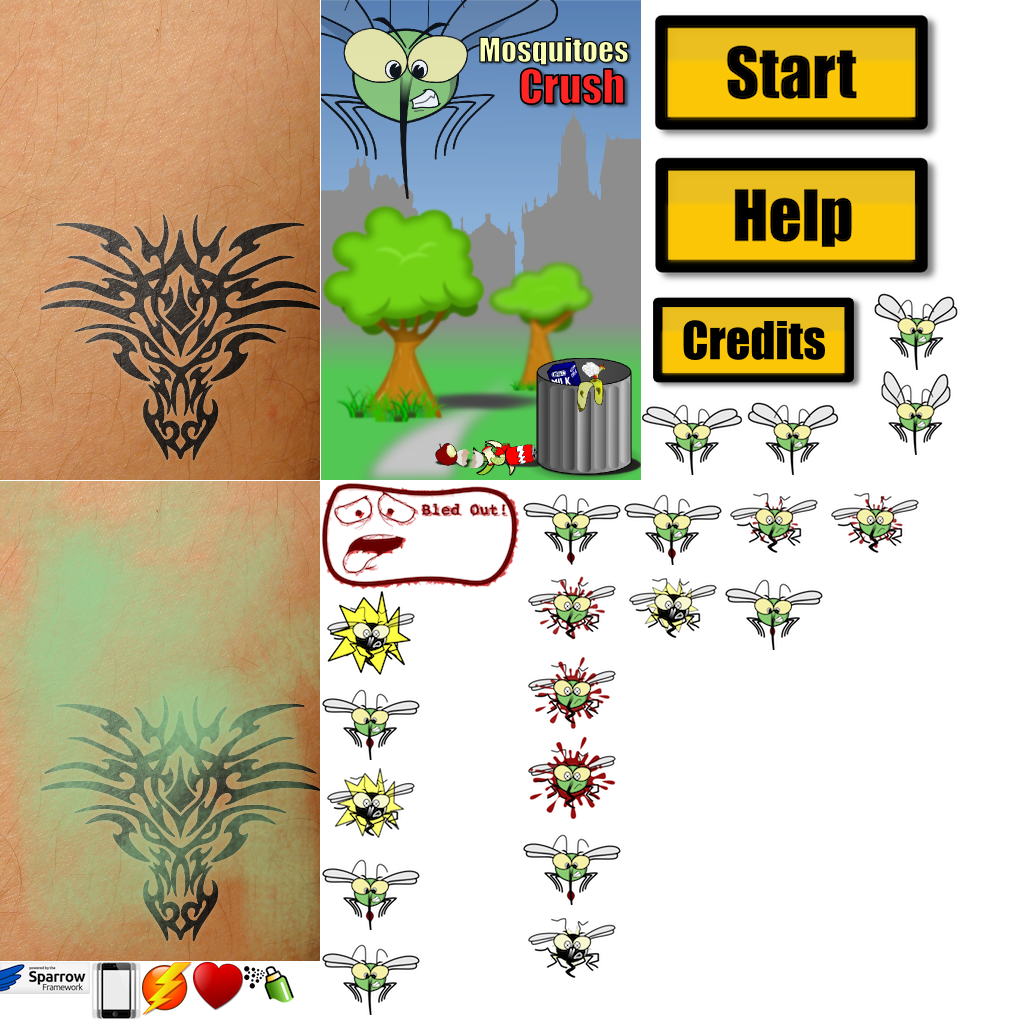
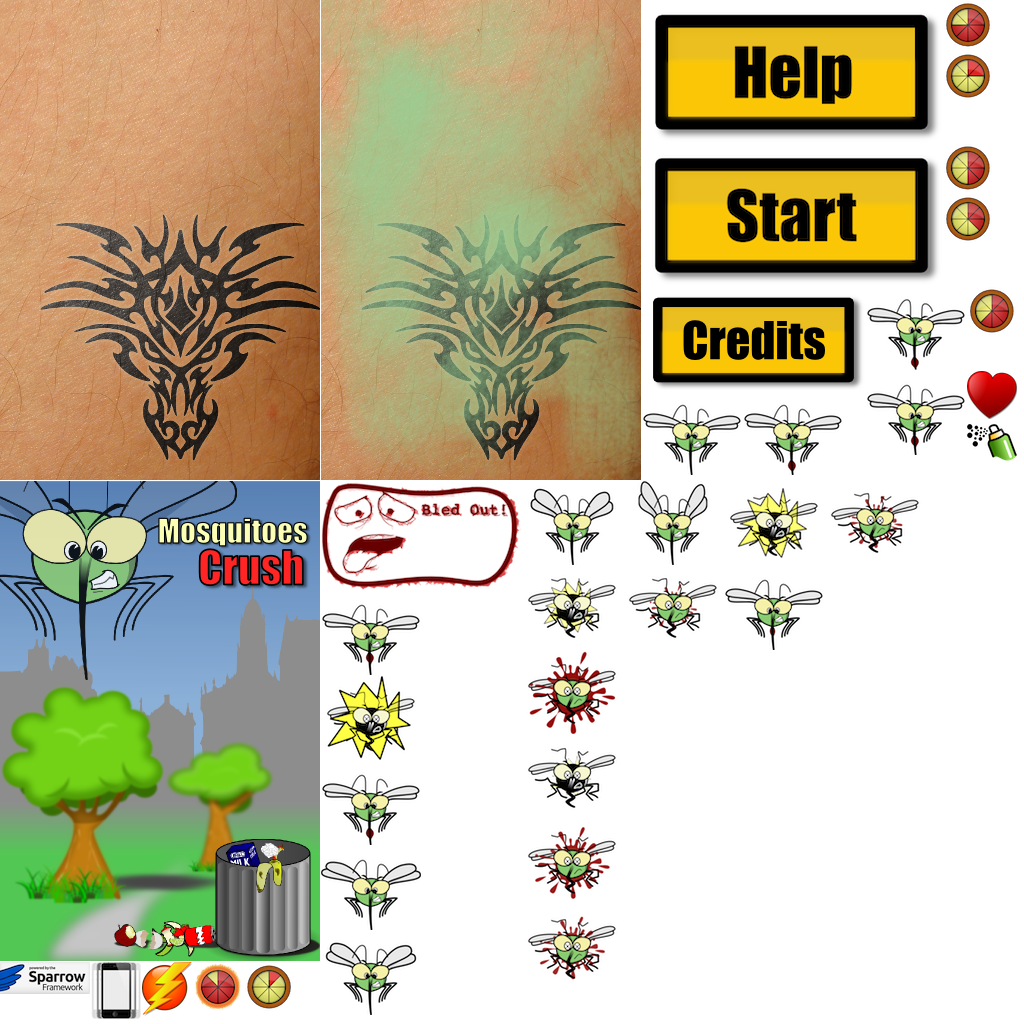
waves

diff --git a/Classes/MainMenu.m b/Classes/MainMenu.m
@@ -11,6 +11,17 @@
 #import "MosquitoSprite.h"
 #import "MosquitoTouchEvent.h"
 
+int totalWave = 4;
+int currentWave = 0;
+
+double waves[][11] = {
+    //Time_0, Pacific_1, Lvl1_2, Lvl1WI_3, Lvl1WE_4, Lvl2_5, Lvl2WI_6, Lvl2WE_7, Lvl3_8, Lvl3WI_9, Lvl3WE_10
+    { 20.0  , 0.0      , 15.0  , 0.5     , 1     , 0.0   , 0.0     , 0.0     , 0.0   , 0.0     , 0.0      },
+    { 25.0  , 0.0      , 10.0  , 0.5     , 1     , 3.0   , 1.0     , 1.5     , 0.0   , 0.0     , 0.0      },
+    { 25.0  , 2.0      , 10.0  , 0.5     , 1     , 3.0   , 1.0     , 1.5     , 0.0   , 0.0     , 0.0      },
+    { 30.0  , 3.0      , 10.0  , 0.5     , 1     , 4.0   , 1.0     , 1.5     , 2.0   , 1.5     , 5.0      }
+};
+
 @interface MainMenu() {
     int kills;
     int HScore;
@@ -30,6 +41,7 @@
 -(void) countDownValue:(int) val;
 -(void) killit:(MosquitoTouchEvent*) event;
 -(void) updateHighScore:(double) score;
+-(void) nextRound:(SPEvent*) event;
 @end
 
 @implementation MainMenu
@@ -178,6 +190,7 @@
 
 -(void)marathon {
     [self countDownValue:3];
+    currentWave = 0;
     //[mPlayground launchMosquitoAtX:160 Y:240 FlyProb:1.0 Life:1 Power:1];
 }
 
@@ -212,34 +225,43 @@
 }
 
 -(void)startMarathon {
-    [mPlayground launchPacificAtX:arc4random()%(int)(self.width-90) + 15 Y:arc4random()%(int)(self.height-150)+37];
-    for (int i =0; i < 7; i++) {
-        [mPlayground launchMosquitoAtX:arc4random()%(int)(self.width-90) + 15 Y:arc4random()%(int)(self.height-150)+37 FlyProb:0.75 Life:1 Power:1 Worth:1.5];
+    //[self nextRound:nil];
+    [mPlayground showClock:7.0];
+ //   [mPlayground addEventListener:@selector(killit:) atObject:self forType:EVENT_TYPE_MOSQUITO_TOUCHED];
+    [mPlayground addEventListener:@selector(nextRound:) atObject:self forType:EVENT_CLOCK_ENDED];
+}
+
+-(void)nextRound:(SPEvent *)event {
+    double time = 0;
+    for (int i = 0; i < waves[currentWave][1]; i++) {
+        [mPlayground launchPacificAtX:arc4random()%(int)(self.width-90) + 15 Y:arc4random()%(int)(self.height-150)+37];
     }
-    kills = 0;
-    [mPlayground addEventListener:@selector(killit:) atObject:self forType:EVENT_TYPE_MOSQUITO_TOUCHED];
+    for (int i =0; i < waves[currentWave][2]; i++) {
+        double prob = (arc4random()%1000/1000.0)*(waves[currentWave][4] - waves[currentWave][3]) + waves[currentWave][3];
+        time += prob;
+        [[mInGameJuggler delayInvocationAtTarget:mPlayground byTime:time] launchMosquitoAtX:arc4random()%(int)(self.width-90)+15 Y:arc4random()%(int)(self.height-150)+37 FlyProb:0.75 Life:1 Power:1 Worth:1.5];
+    }
+    time = 0;
+    for (int i =0; i < waves[currentWave][5]; i++) {
+        double prob = (arc4random()%1000/1000.0)*(waves[currentWave][7] - waves[currentWave][6]) + waves[currentWave][6];
+        time += prob;
+        [[mInGameJuggler delayInvocationAtTarget:mPlayground byTime:time] launchMosquitoAtX:arc4random()%(int)(self.width-90)+15 Y:arc4random()%(int)(self.height-150)+37 FlyProb:0.65 Life:2 Power:2 Worth:3];
+    }
+    time = 0;
+    for (int i =0; i < waves[currentWave][8]; i++) {
+        double prob = (arc4random()%1000/1000.0)*(waves[currentWave][10] - waves[currentWave][9]) + waves[currentWave][9];
+        time += prob;
+        [[mInGameJuggler delayInvocationAtTarget:mPlayground byTime:time] launchMosquitoAtX:arc4random()%(int)(self.width-90)+15 Y:arc4random()%(int)(self.height-150)+37 FlyProb:0.50 Life:3 Power:3 Worth:5.3];
+    }
+    if (currentWave + 1 < totalWave) {
+        currentWave++;
+        [[mGameoverJuggler delayInvocationAtTarget:mPlayground byTime:2.0] showClock:waves[currentWave-1][0]];
+    } else {
+        [[mGameoverJuggler delayInvocationAtTarget:mPlayground byTime:2.0] showClock:waves[currentWave][0]];
+    }
 }
 
 -(void)killit:(MosquitoTouchEvent *)event {
-    kills += event.mosquito.worth;
-    if (kills >= 4) {
-        double prob = arc4random()%1000/1000.0;
-        [mPlayground launchPacificAtX:arc4random()%(int)(self.width-90) + 15 Y:arc4random()%(int)(self.height-150)+37];
-        if (prob <= 0.5) {
-            for (int i =0; i < 4; i++) {
-                [[mInGameJuggler delayInvocationAtTarget:mPlayground byTime:0.5*i] launchMosquitoAtX:arc4random()%(int)(self.width-90)+15 Y:arc4random()%(int)(self.height-150)+37 FlyProb:0.75 Life:1 Power:1 Worth:1.5];
-            }
-        } else if (prob <= 0.85) {
-            for (int i =0; i < 3; i++) {
-                [[mInGameJuggler delayInvocationAtTarget:mPlayground byTime:0.7*i] launchMosquitoAtX:arc4random()%(int)(self.width-90)+15 Y:arc4random()%(int)(self.height-150)+37 FlyProb:0.65 Life:2 Power:2 Worth:3];
-            }
-        } else {
-            for (int i =0; i < 2; i++) {
-                [[mInGameJuggler delayInvocationAtTarget:mPlayground byTime:1*i] launchMosquitoAtX:arc4random()%(int)(self.width-90)+15 Y:arc4random()%(int)(self.height-150)+37 FlyProb:0.50 Life:3 Power:3 Worth:5.3];
-            }
-        }
-        kills = 0;
-    }
 }
 
 -(void)gameover:(SPEvent *)event {

diff --git a/Classes/Playground.m b/Classes/Playground.m
@@ -35,6 +35,9 @@
 -(void) killPacific:(MosquitoTouchEvent*) event;
 -(void) hitPacific:(SPEvent*) event;
 -(void) removePacific:(PacificSprite*) pacific Transform:(BOOL) trans;
+-(void) stopClock;
+-(void) onClockTouched:(SPTouchEvent*) event;
+-(void) onClockEnded:(SPEvent*) event;
 @end
 
 @implementation Playground
@@ -55,11 +58,13 @@
         countMiss = 0;
         colors = [[NSArray arrayWithObjects:[NSNumber numberWithInt:0xffffff], [NSNumber numberWithInt:0xff9999], [NSNumber numberWithInt:0xff3333] , nil] retain];
         mJuggler = [[SPJuggler alloc] init];
+        mClockJuggler = [[SPJuggler alloc] init];
         mosquitoes = [[NSMutableArray alloc] init];
         gifts = [[NSMutableArray alloc] init];
         
         self.width = width;
         self.height = height;
+        
         
         spraybckImg = [SPImage imageWithTexture:[Game texture:@"spraygamebg"]];
         [self addChild:spraybckImg];
@@ -91,6 +96,18 @@
         life.kerning = YES;
         [self addChild:life];
         
+        clockClip = [SPMovieClip movieWithFrames:[Game textures:@"clock"] fps:10.0];
+        clockClip.visible = NO;
+        clockClip.loop = NO;
+        clockClip.width = clockClip.width*0.7;
+        clockClip.height = clockClip.height*0.7;
+        clockClip.x = self.width/2.0 - clockClip.width/2.0;
+        clockClip.y = 1;
+        [self addChild:clockClip];
+        [mClockJuggler addObject:clockClip];
+        [clockClip addEventListener:@selector(onClockEnded:) atObject:self forType:SP_EVENT_TYPE_MOVIE_COMPLETED];
+        [clockClip addEventListener:@selector(onClockTouched:) atObject:self forType:SP_EVENT_TYPE_TOUCH];
+
         SPImage* iheart = [SPImage imageWithTexture:[Game texture:@"heart"]];
         iheart.width = 15;
         iheart.height = 15;
@@ -129,10 +146,51 @@
     return self;
 }
 
--(void)swapBG {
+-(void)showClock:(double)time {
+    double fps = 7.0 / time;
+    clockClip.fps = fps;
+    clockClip.visible = YES;
+    SPTween* tween = [SPTween tweenWithTarget:clockClip time:0.2];
+    [tween animateProperty:@"alpha" targetValue:1];
+    [mClockJuggler addObject:tween];
+    [clockClip setCurrentFrame:0];
+    [clockClip play];
+}
+
+-(void) stopClock {
+    [clockClip pause];
+    SPTween* tween = [SPTween tweenWithTarget:clockClip time:0.2];
+    [tween animateProperty:@"alpha" targetValue:0.0];
+    [mClockJuggler addObject:tween];
+    SPEvent* event = [[SPEvent alloc] initWithType:EVENT_CLOCK_ENDED bubbles:NO];
+    [self dispatchEvent:event];
+    [event release];
+}
+
+-(void)onClockTouched:(SPTouchEvent *)event {
+    SPTouch *touch = [[event touchesWithTarget:clockClip andPhase:SPTouchPhaseEnded] anyObject];
+    if(touch) {
+        [self stopClock];
+        SPTween* tween = [SPTween tweenWithTarget:points time:0.2f];
+        [tween animateProperty:@"value" targetValue:points.value + 10];
+        [mJuggler addObject:tween];
+    }
+}
+
+-(void)onClockEnded:(SPEvent *)event {
+    [self stopClock];
+}
+
+-(void) swapBGtoNormal {
     SPTween* tween = [SPTween tweenWithTarget:bckImg time:0.3];
-    [tween animateProperty:@"alpha" targetValue:1 - bckImg.alpha];
-    [mJuggler addObject:tween];
+    [tween animateProperty:@"alpha" targetValue:1];
+    [mJuggler addObject:tween];    
+}
+
+-(void)swapBGToCream {
+    SPTween* tween = [SPTween tweenWithTarget:bckImg time:0.3];
+    [tween animateProperty:@"alpha" targetValue:0];
+    [mJuggler addObject:tween];    
 }
 
 -(void) launchMosquitoAtX:(double) x Y:(double) y FlyProb:(double) fp Life:(double) lif Power:(double) pow Worth:(double) worth {
@@ -313,7 +371,7 @@
             gMsg.scaleX = 0;
             gMsg.alpha = 0;
             [self addChild:gMsg];
-            [gMsg addEventListener:@selector(gameover:) atObject:self forType:SP_EVENT_TYPE_TOUCH];
+            [[mJuggler delayInvocationAtTarget:gMsg byTime:3.5] addEventListener:@selector(gameover:) atObject:self forType:SP_EVENT_TYPE_TOUCH];
             SPTween* tween = [SPTween tweenWithTarget:gMsg time:0.1];
             [tween scaleTo:1];
             [tween moveToX:x y:y];
@@ -349,6 +407,7 @@
 -(void) advanceTime:(double) seconds {
     [mJuggler advanceTime:seconds];
     if(!stop) {
+        [mClockJuggler advanceTime:seconds];
         NSArray* copyM = [mosquitoes copy]; 
         for (MosquitoSprite* m in copyM) {
             if (!m.visible) {
@@ -376,6 +435,7 @@
     [gifts release];
     [comboTF release];
     [mJuggler release];
+    [mClockJuggler release];
     [life release];
     [points release];
     [mosquitoes release];

diff --git a/Classes/Playground.h b/Classes/Playground.h
@@ -13,9 +13,12 @@
 
 #define EVENT_GAMEOVER @"playgroundgamoeover"
 #define EVENT_INCORRECT_TOUCH @"incorrecttouch"
+#define EVENT_CLOCK_ENDED @"clockended"
 
 @interface Playground : SPSprite {
     SPJuggler* mJuggler;
+    SPJuggler* mClockJuggler;
+    SPMovieClip* clockClip;
     NSMutableArray* mosquitoes;
     double statsHeight;
     NumberField* points;
@@ -57,5 +60,9 @@
 
 -(void) interruptSucking;
 
--(void) swapBG;
+-(void) swapBGtoNormal;
+
+-(void) swapBGToCream;
+
+-(void) showClock:(double) time;
 @end

diff --git a/Classes/SprayGift.m b/Classes/SprayGift.m
@@ -31,7 +31,7 @@
     [mJuggler removeAllObjects];
     self.alpha = 1.0;
     if (![self terminateGiftSameClass]) {
-        [pg swapBG];
+        [pg swapBGToCream];
         pg.canSuck = NO;
         [pg interruptSucking];
     }
@@ -48,7 +48,7 @@
 
 -(void)onEffectEnded:(SPEvent *)event {
     Playground* pg = (Playground*)self.parent;
-    [pg swapBG];
+    [pg swapBGtoNormal];
     pg.canSuck = YES;
     self.alpha = 0.0;
     [self removeFromParent];    
